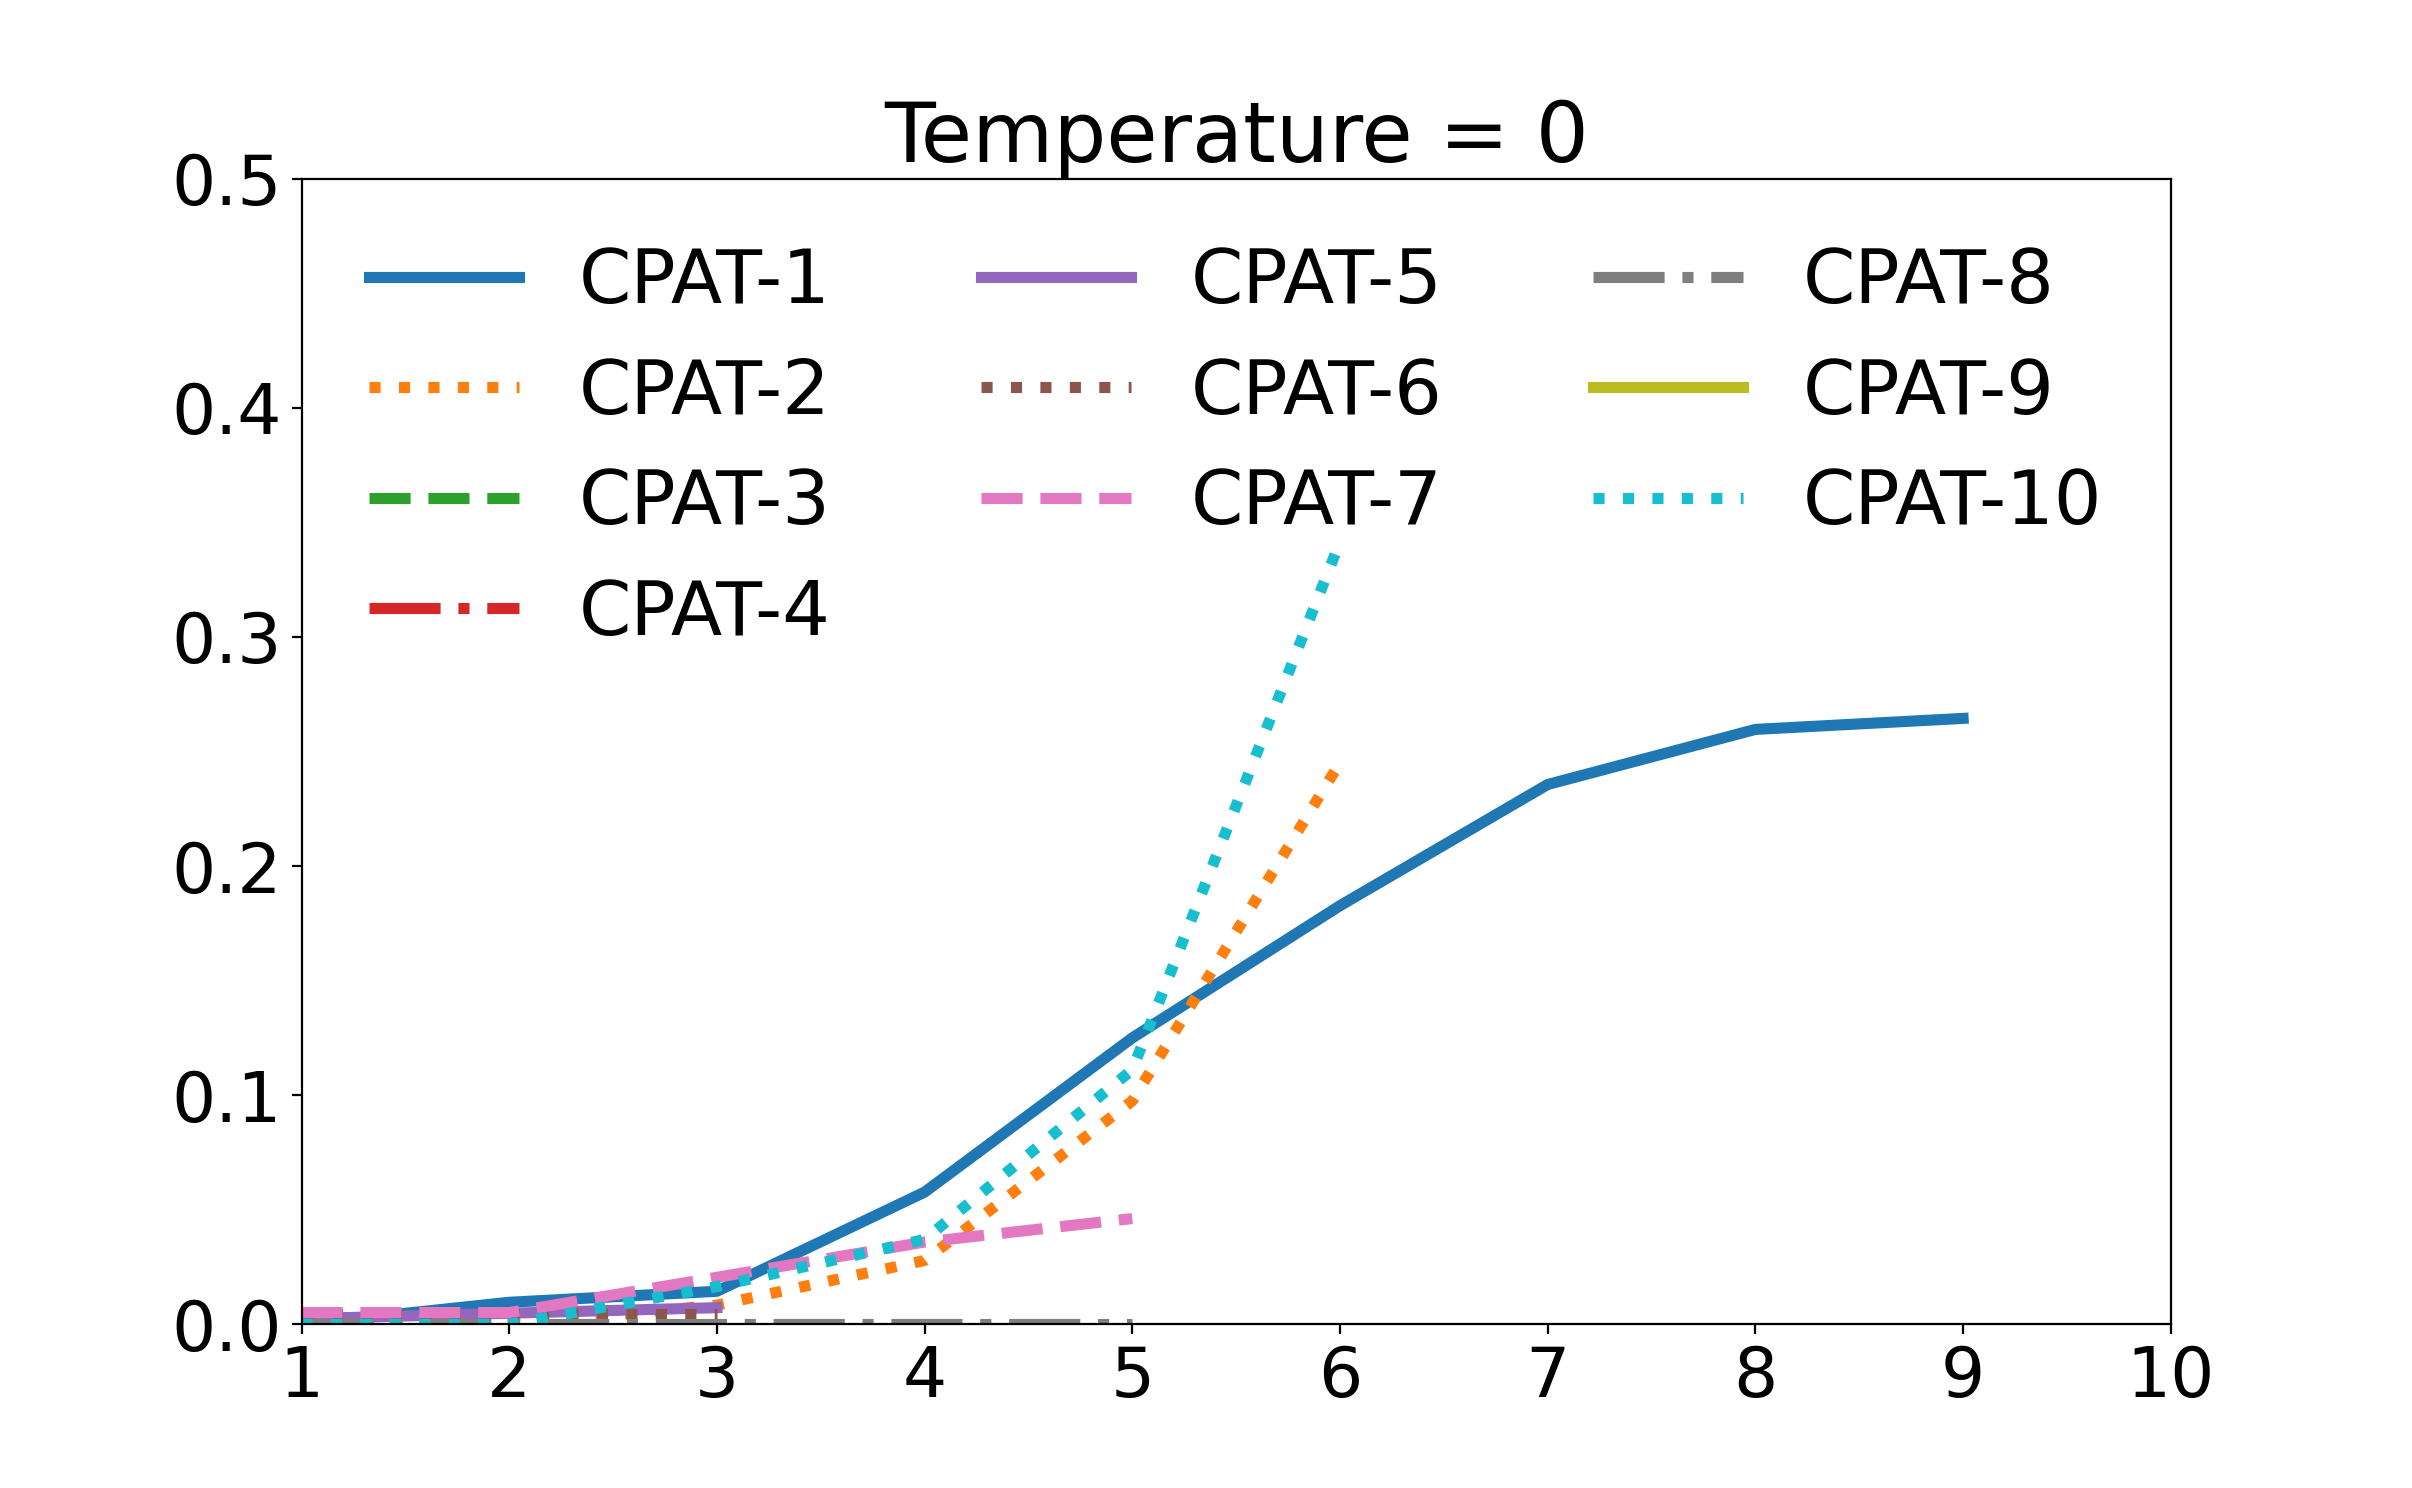
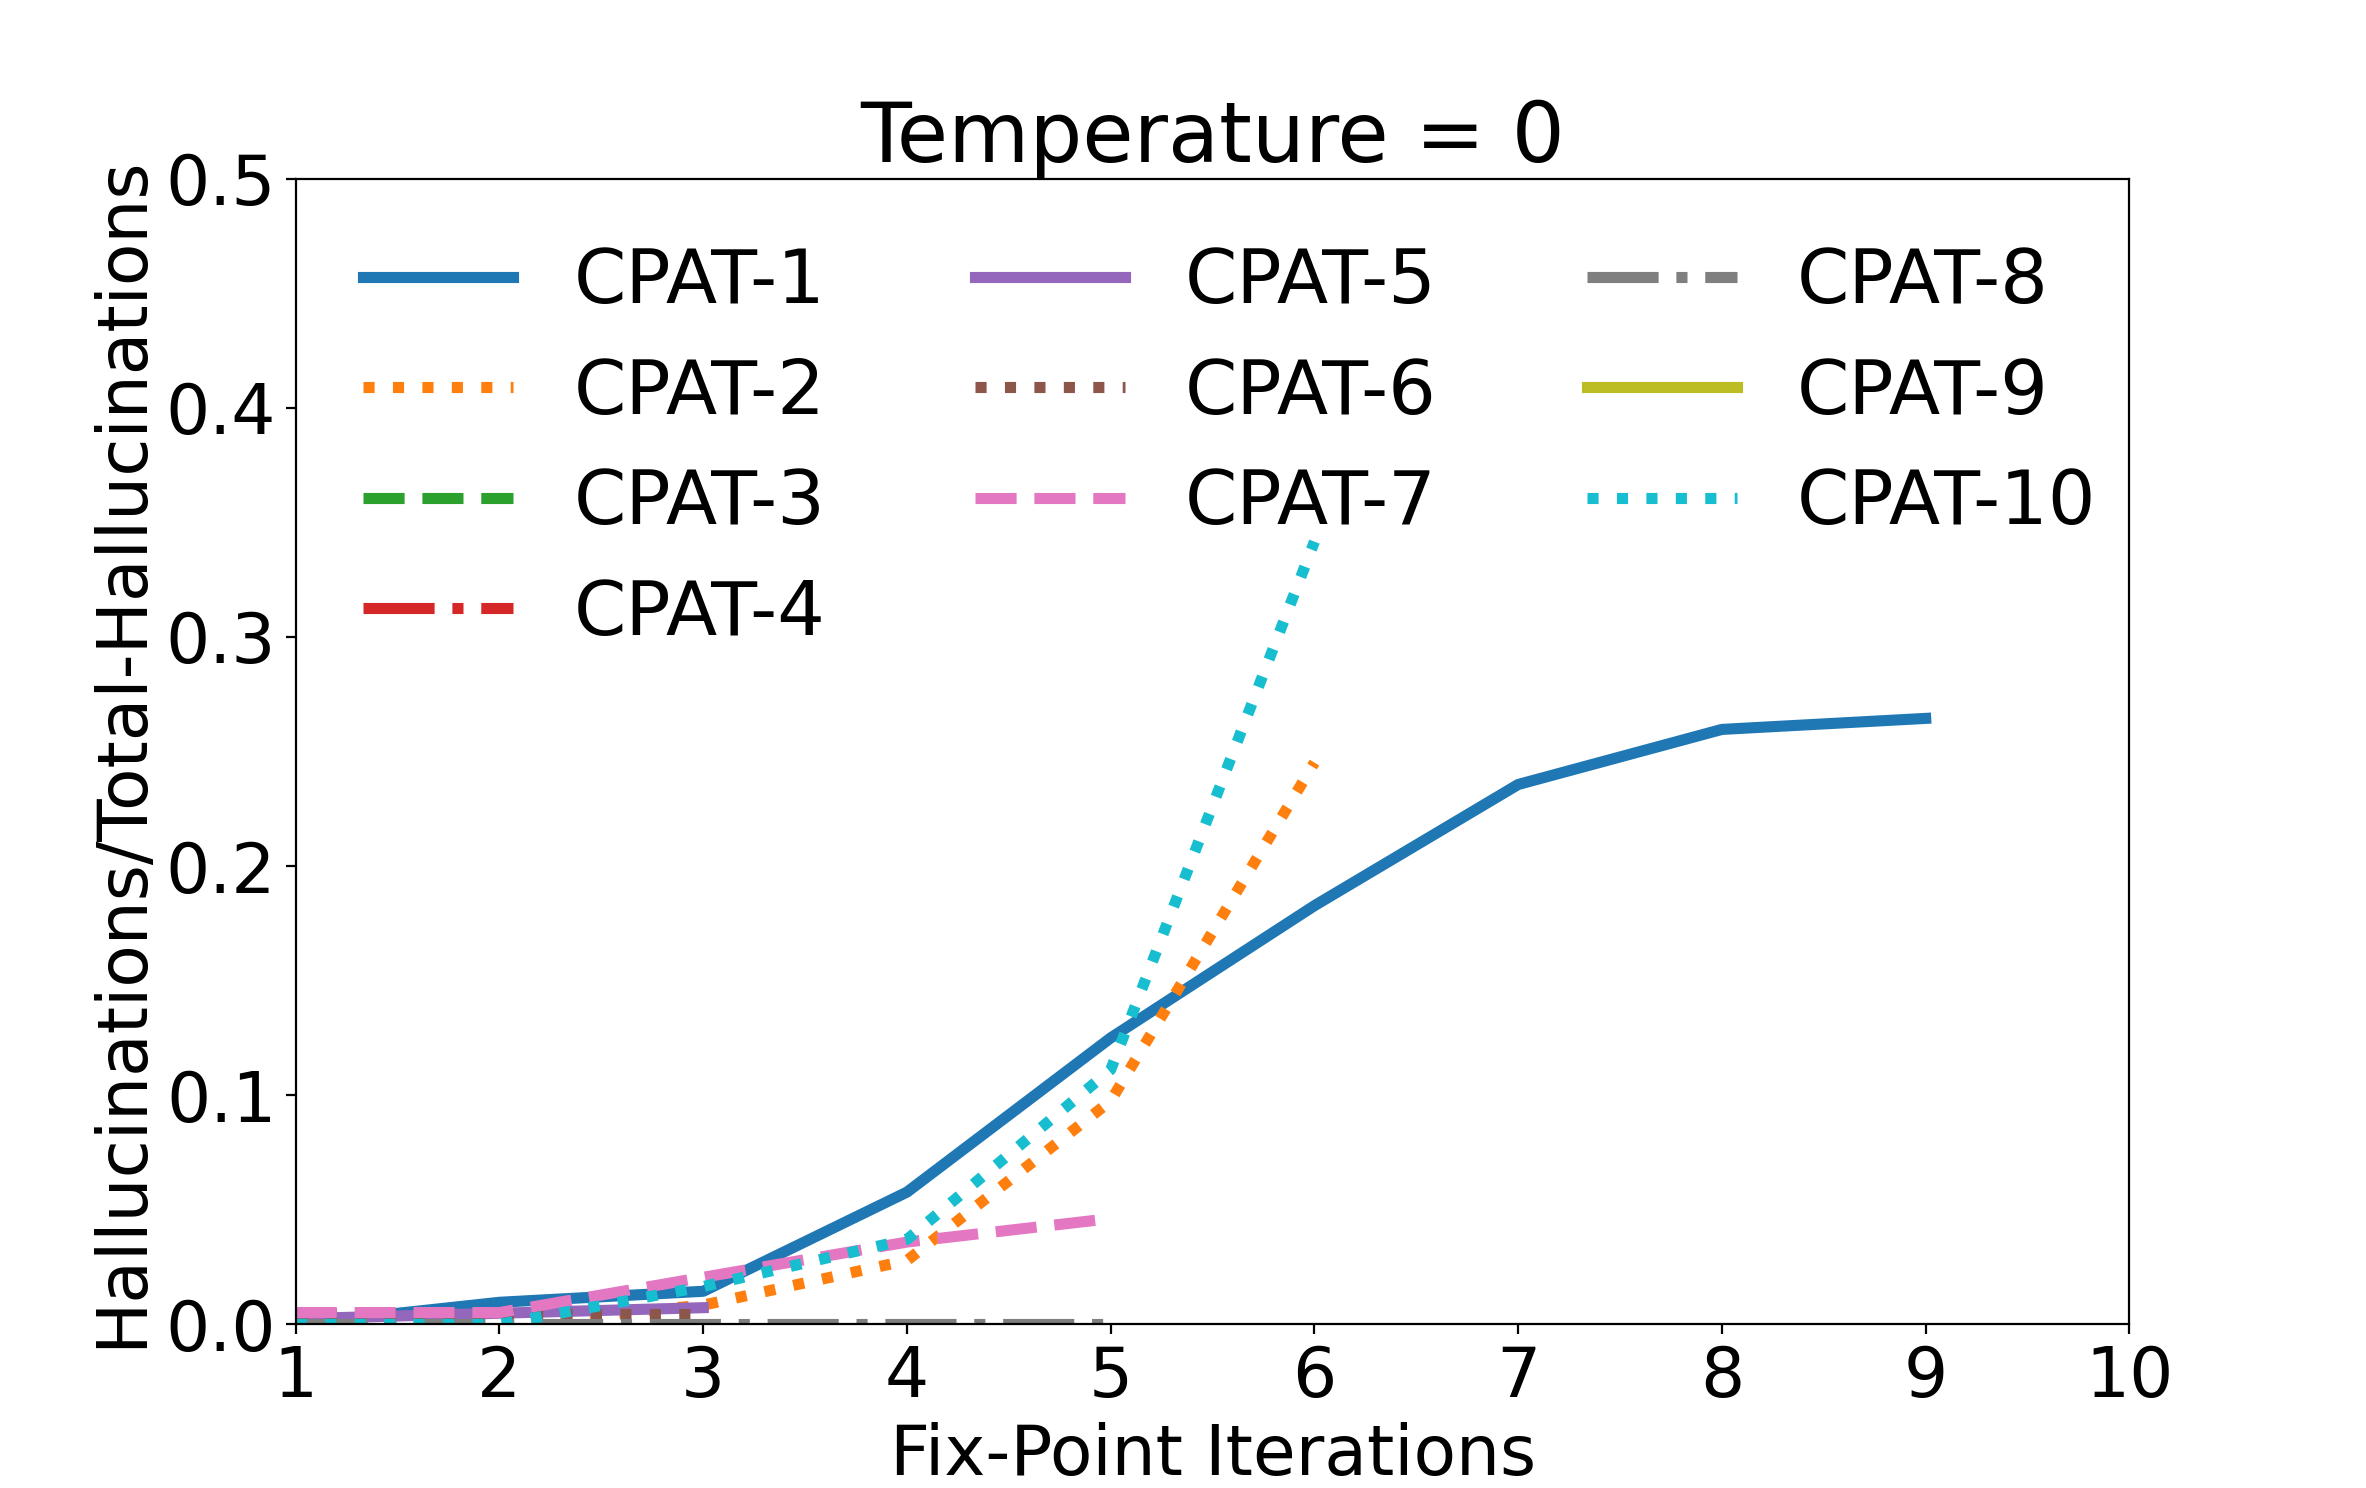
add description to plots/ improve plots

diff --git a/plots.md b/plots.md
@@ -1,7 +1,21 @@
 # Additional Plots
 
 ## Figure 5
-![Temperature 0 (Fig 7)](/images/fig5/temp_0.png)
+The figures below describe how the total number of
+variants generated changes by querying the LLM repeatedly
+with the same prompt. 
+The x-axis shows the number of prompts, and 
+the y-axis shows the percentage of variants generated.
+
+The figure seen below is the one present in the paper. 
+It shows the average behaviour across all chosen temperatures. 
+
+![Average of all temperatures(Fig 5)](/images/fig5/line_plot.png)
+
+The figures below are **supplementary**, they depict the
+behaviour for each of the chosen temperature values. 
+
+![Temperature 0](/images/fig5/temp_0.png)
 
 ![Temperature 0.3](/images/fig5/temp_0.3.png)
 
@@ -17,7 +31,17 @@
 
 ## Figure 7
 
+The figures below describe how the number of
+hallucinations increases with the increase in number of 
+fix-point iterations. 
+
+The figure seen below is the one present in the paper. 
+It shows the behavior for temperature 0.
+
 ![Temperature 0 (Fig 7)](/images/fig7/temp_0.png)
+
+The figures below are **supplementary**, they depict the
+behaviour for the remaining chosen temperature values. 
 
 ![Temperature 0.3](/images/fig7/temp_0.3.png)
 
